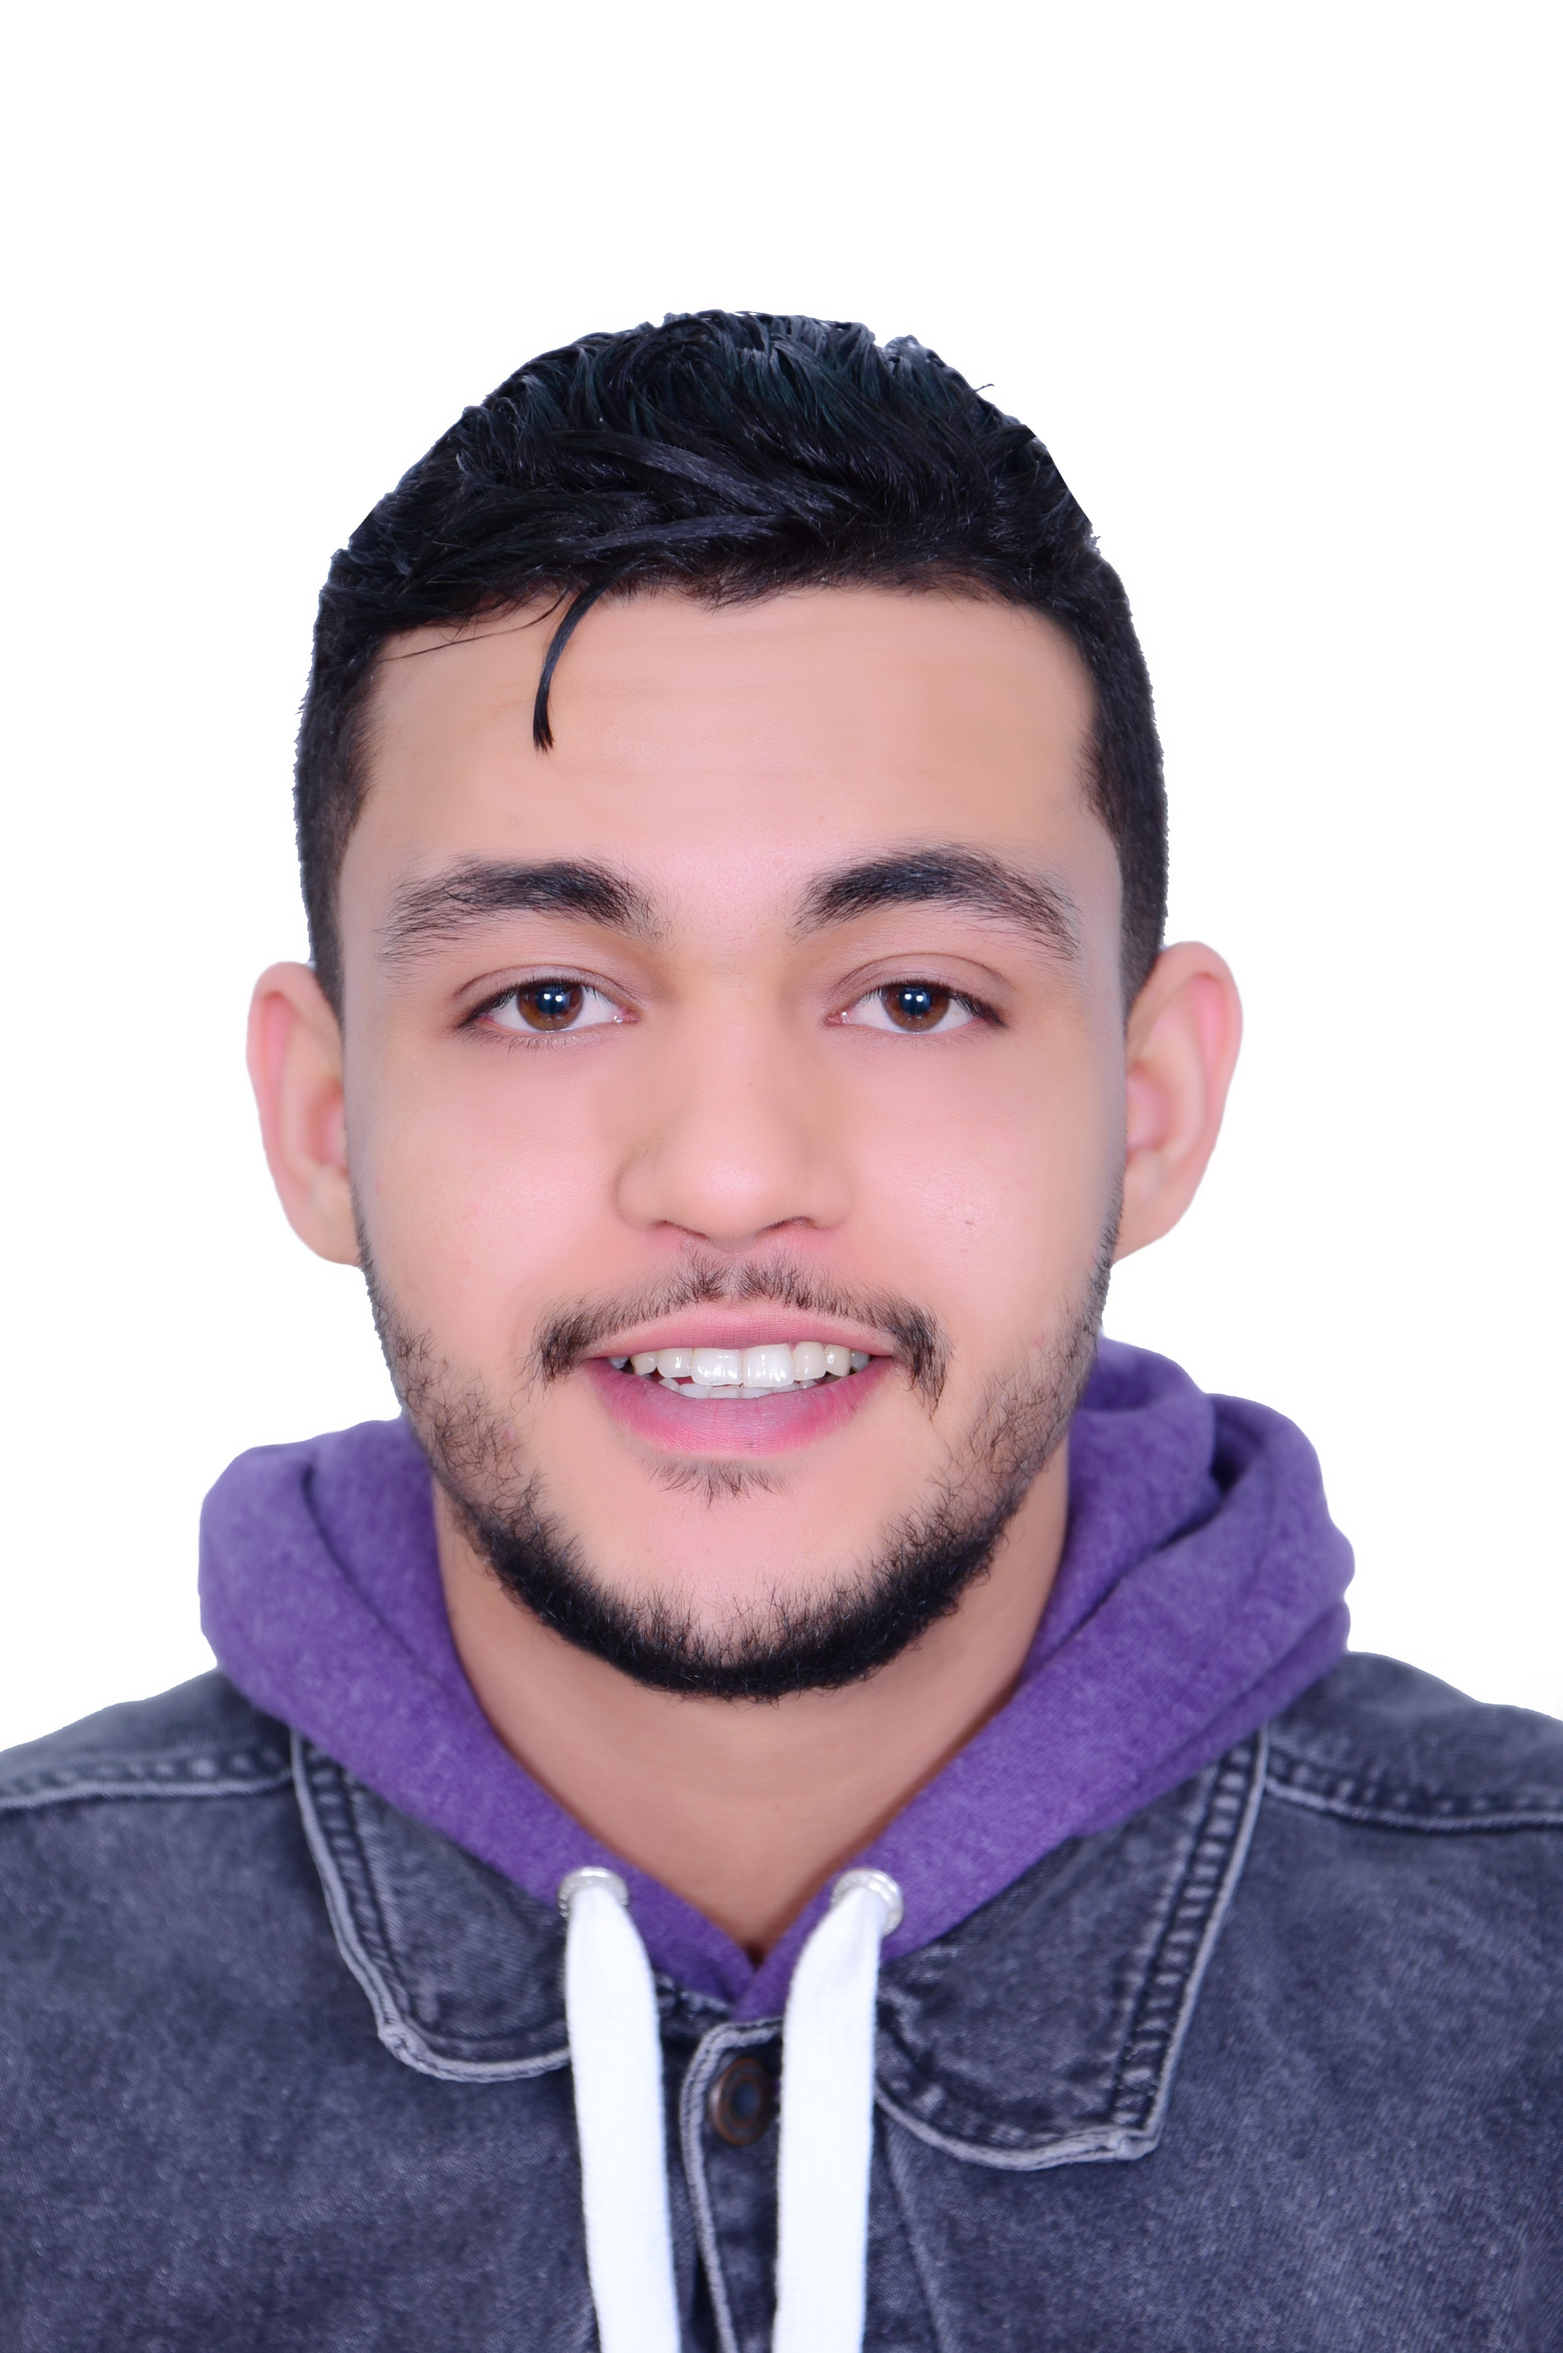
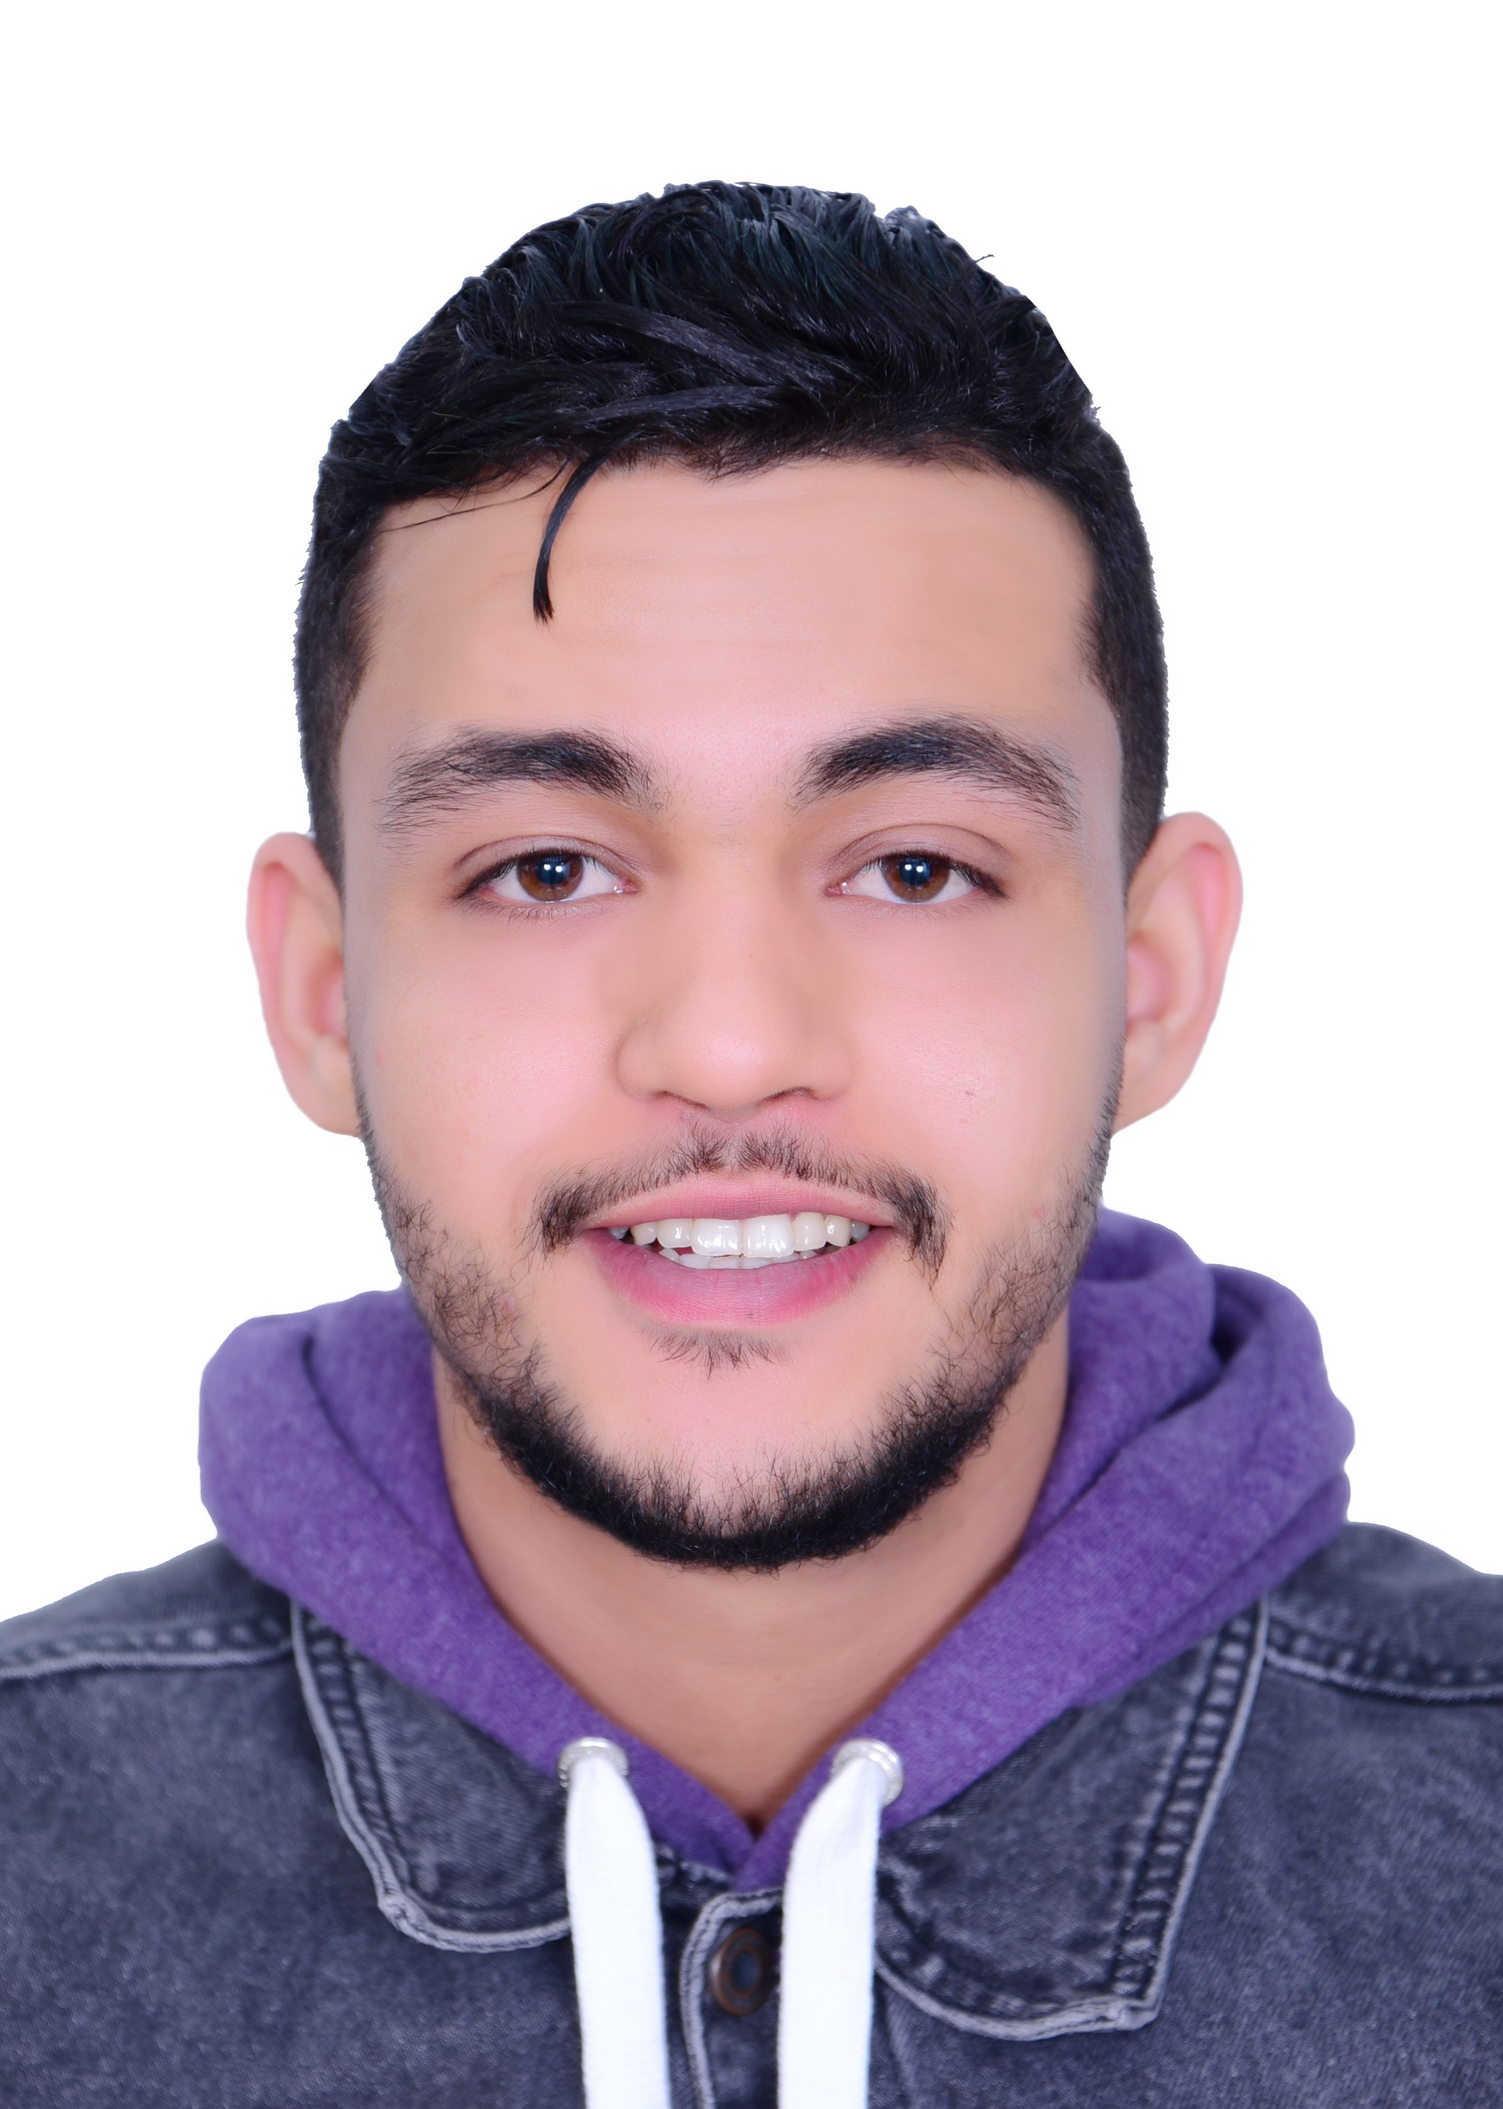
added photo and created project cards

Changed region(s): [[0.0, 0.0623, 1.0, 1.0], [0.0, 0.904, 0.0312, 0.9352]]

diff --git a/src/app/home/home.component.html b/src/app/home/home.component.html
@@ -4,12 +4,15 @@
         <div class="col-lg shadow border m-1">
             <div class="text-center">
                 <h2>About ME</h2>
-                <img src="../../assets/DSC_6155.JPG" alt="profile picture" width="235" height="300" class="rounded-circle">
+                <img src="../../assets/DSC_6155.JPG" alt="profile picture" width="235" height="320" class="rounded-circle">
+                <p>Lorem, ipsum dolor sit amet consectetur adipisicing elit. Nobis exercitationem ullam facilis sequi minus ex, quidem blanditiis illum pariatur nostrum porro, asperiores tempore dolore quae et nulla quod, vel numquam.</p>
             </div>
         </div>
         <!-- Featured Project -->
         <div class="col-lg shadow border m-1">
-            
+            <div class="text-center">
+                <h2>Featured Project</h2>
+            </div>
         </div>
     </div>
 </div>

diff --git a/src/app/portfolio/portfolio.component.ts b/src/app/portfolio/portfolio.component.ts
@@ -1,5 +1,6 @@
 import { Component } from '@angular/core';
 import { Title } from '@angular/platform-browser';
+import { Project } from '../_models/project';
 
 @Component({
   selector: 'app-portfolio',
@@ -7,6 +8,16 @@ import { Title } from '@angular/platform-browser';
   styleUrls: ['./portfolio.component.css']
 })
 export class PortfolioComponent {
+
+  project : Project = {
+    id : 0,
+    name : 'Sample Angular App',
+    summary : 'This is a sample project for demonstration purposes.',
+    description : '',
+    projectLink : '',
+    tags : ['Angular', 'TypeScript'],
+    pictures : []
+  }
 
   constructor(
     private titleService : Title

diff --git a/src/app/app.module.ts b/src/app/app.module.ts
@@ -10,6 +10,7 @@ import { HomeComponent } from './home/home.component';
 import { PortfolioComponent } from './portfolio/portfolio.component';
 import { ResumeComponent } from './resume/resume.component';
 import { ContactComponent } from './contact/contact.component';
+import { ProjectCardComponent } from './project-card/project-card.component';
 
 @NgModule({
   declarations: [
@@ -19,7 +20,8 @@ import { ContactComponent } from './contact/contact.component';
     HomeComponent,
     PortfolioComponent,
     ResumeComponent,
-    ContactComponent
+    ContactComponent,
+    ProjectCardComponent
   ],
   imports: [
     BrowserModule,

diff --git a/src/app/portfolio/portfolio.component.html b/src/app/portfolio/portfolio.component.html
@@ -1,1 +1,14 @@
-<p>portfolio works!</p>
+<div class="container">
+    <div class="row">
+        <div class="col-lg-4 col-md-6 mb-4" style="max-width: 380px;min-width: 380px;">
+            <app-project-card [project]="project"></app-project-card>
+        </div>
+        <div class="col-lg-4 col-md-6 mb-4" style="max-width: 380px;min-width: 380px;">
+            <app-project-card [project]="project"></app-project-card>
+        </div>
+        <div class="col-lg-4 col-md-6 mb-4" style="max-width: 380px;min-width: 380px;">
+            <app-project-card [project]="project"></app-project-card>
+        </div>
+    </div>
+    
+</div>

diff --git a/src/app/project-card/project-card.component.html b/src/app/project-card/project-card.component.html
@@ -1,0 +1,17 @@
+<div class="card shadow text-center" style="max-width: 350px; min-width: 350px;">
+    <div class="card-body">
+        <h5 class="card-title">{{project.name}}</h5>
+        <p class="card-text">{{project.summary}}</p>
+        <button class="btn btn-primary">View more</button>
+    </div>
+
+    <div class="card-footer">
+        <div class="d-flex flex-wrap justify-content-center">
+            <div *ngFor="let tag of project.tags">
+                <div class="tag me-2 mb-1">
+                    {{tag}}
+                </div>
+            </div>
+        </div>
+    </div>
+</div>

diff --git a/src/app/project-card/project-card.component.ts b/src/app/project-card/project-card.component.ts
@@ -1,0 +1,11 @@
+import { Component, Input } from '@angular/core';
+import { Project } from '../_models/project';
+
+@Component({
+  selector: 'app-project-card',
+  templateUrl: './project-card.component.html',
+  styleUrls: ['./project-card.component.css']
+})
+export class ProjectCardComponent {
+  @Input() project = {} as Project
+}

diff --git a/src/app/_models/project.ts b/src/app/_models/project.ts
@@ -1,0 +1,9 @@
+export interface Project {
+    id : number;
+    name : string; 
+    summary : string; 
+    description : string; 
+    projectLink : string; 
+    pictures : string[]; 
+    tags : string[]; 
+}

diff --git a/src/app/project-card/project-card.component.css b/src/app/project-card/project-card.component.css
@@ -1,0 +1,10 @@
+.tag {
+    padding: 0 20px;
+    height: 30px;
+    width: fit-content;
+    font-size: 14px;
+    line-height: 30px;
+    border-radius: 25px;
+    background-color: blue;
+    color: white;
+}

diff --git a/src/styles.css b/src/styles.css
@@ -1,1 +1,4 @@
 /* You can add global styles to this file, and also import other style files */
+.container {
+    max-width: 1140px;
+}
